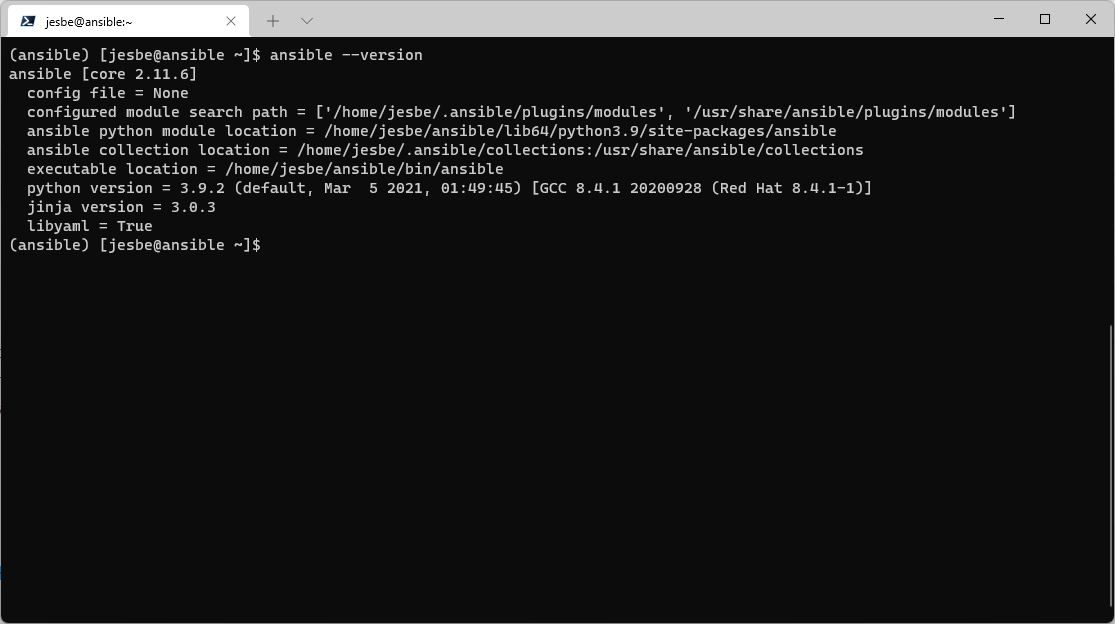
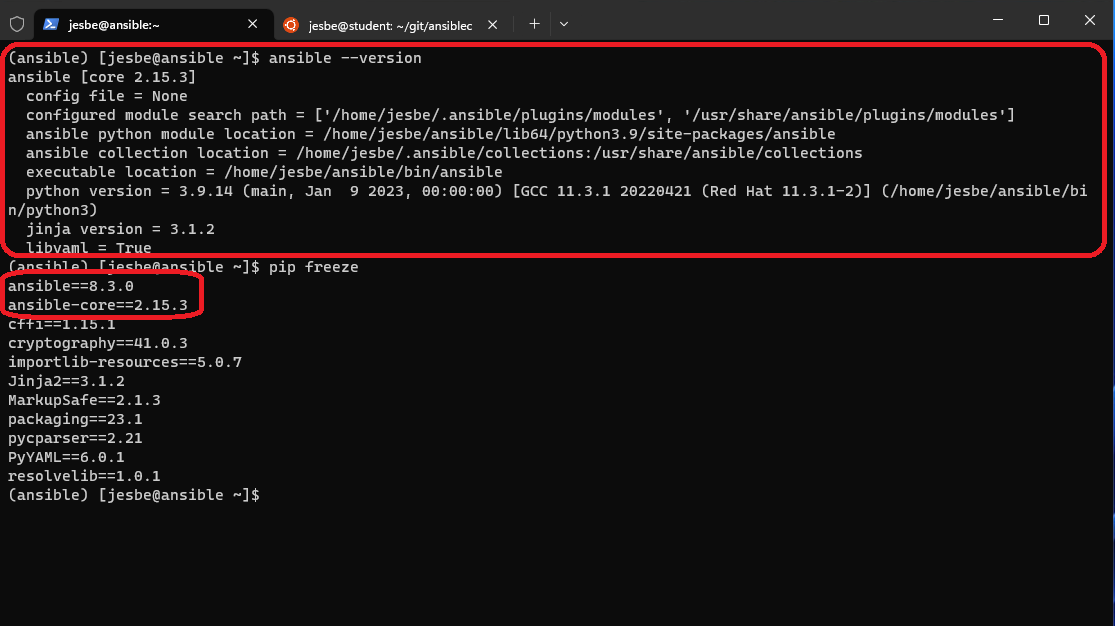
lab 2 task 1 updated

diff --git a/website/content/lab02/task2/_index.md b/website/content/lab02/task2/_index.md
@@ -5,37 +5,46 @@ weight: 20
 
 ## Task 2 Run ansible command
 
-Log on to server "ansible" using ssh
+On
 
 ![ansible](/images/ansible.png)
+
+We can see the ansible version and the python package versions installed
 
 __Type:__
 
 ```bash
 ansible --version
+
+pip freeze
+
 ```
 
 ![Alt text](images/004_install_ansible_version.png?raw=true "Ansible --version")
+
+--help Will give you other options for ansible command
 
 __Type:__
 
 ```bash
 ansible --help
+
 ```
 
-Will give you other options for ansible command
+![Alt text](images/004_ansible_help.png?raw=true "Ansible --help")
+
+Run ansible against localhost with module ping
 
 [Ansible Ping Module](https://docs.ansible.com/ansible/latest/modules/ping_module.html)
 
 ```bash
 ansible localhost -m ping
-```
 
-Will run ansible against localhost with module ping
+```
 
 ![Alt text](images/005_install_ansible_localhost_ping.png?raw=true "Ansible localhost ping")
 
-[Ansible File Module](https://docs.ansible.com/ansible/latest/modules/list_of_files_modules.html)
+[Ansible File Module](https://docs.ansible.com/ansible/latest/collections/ansible/builtin/file_module.html)
 
 __Type:__
 
